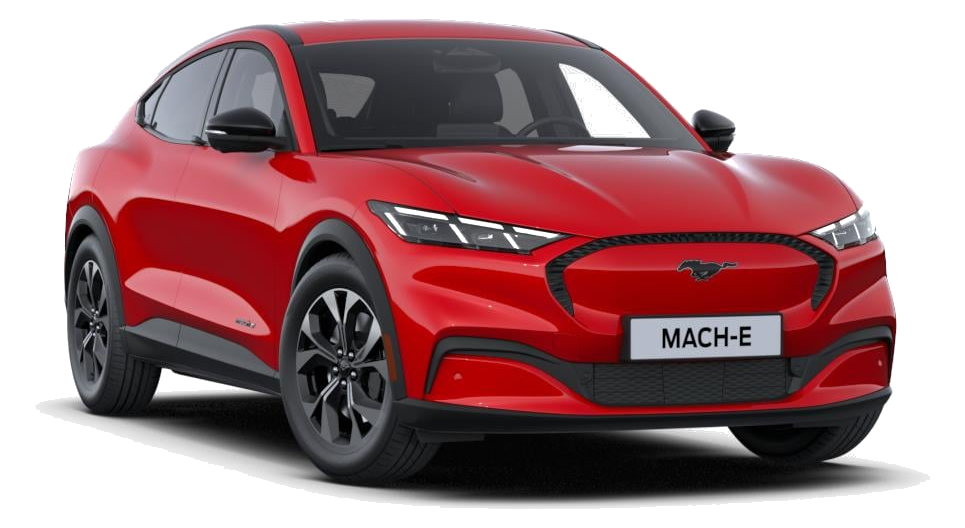
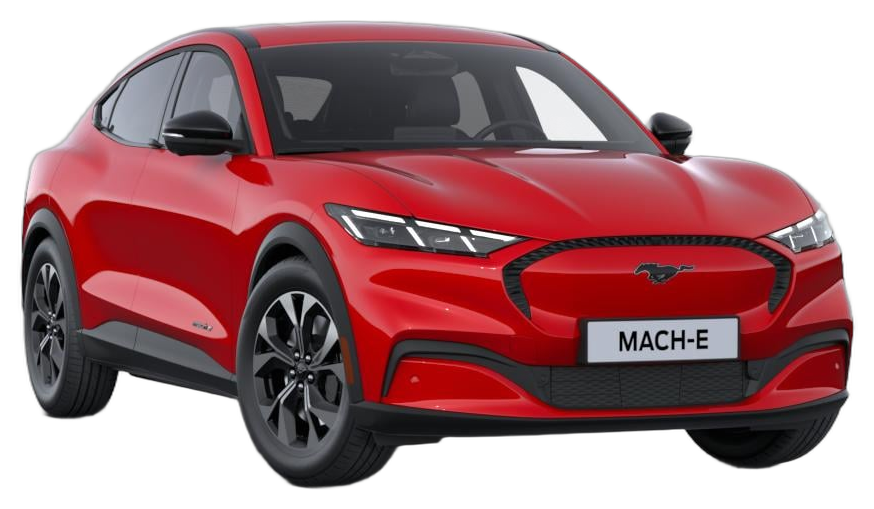
Corrigir recorte do Mustang; mover botões de vista para junto da paginação
- Ford Mustang Mach-E: substituída a imagem por um recorte mais limpo
  (o corte anterior tinha um contorno estranho)
- Os botões de grelha/carrossel deixam de ficar junto ao título
  "Viaturas disponíveis" e passam para a mesma linha do indicador de
  página e das setas (só aparecem quando há resultados); a paginação
  (page/perPage) passa a ser controlada em Home.jsx, e o CarCarousel
  fica só com a grelha de cartões

Claude-Session: https://claude.ai/code/session_01RBfWJj3LGtyzrDsbSkQSH1

diff --git a/src/pages/Home.jsx b/src/pages/Home.jsx
@@ -7,6 +7,9 @@ import CarCarousel from "../components/CarCarousel.jsx";
 import { CARS } from "../data/cars.js";
 import { useLanguage } from "../i18n/LanguageContext.jsx";
 import { localizeCar } from "../i18n/localizeCar.js";
+import { useColumns } from "../hooks/useColumns.js";
+
+const ROWS_PER_PAGE = 3;
 
 const PRECO_OPCOES = [15000, 20000, 30000, 40000, 60000, 80000, 100000];
 
@@ -22,6 +25,9 @@ export default function Home() {
   const [combustivel, setCombustivel] = useState("Todos");
   const [precoMax, setPrecoMax] = useState(null); // null = sem limite de preço
   const [vista, setVista] = useState("carrossel");
+  const [page, setPage] = useState(0);
+  const cols = useColumns();
+  const perPage = cols * ROWS_PER_PAGE;
 
   // Atalhos vindos do menu (ex.: /?marca=BMW, /?combustivel=Elétrico,
   // /?ordenar=recentes) — aplicam o filtro e vão direto aos resultados.
@@ -84,6 +90,15 @@ export default function Home() {
     return list.map((c) => localizeCar(c, lang));
   }, [marca, modelo, combustivel, precoMax, lang, ordenar]);
 
+  // Paginação da vista "carrossel" — sempre no máximo 3 filas por página.
+  useEffect(() => {
+    setPage(0);
+  }, [marca, modelo, combustivel, precoMax, ordenar, vista, perPage]);
+
+  const pageCount = Math.max(1, Math.ceil(filtrados.length / perPage));
+  const currentPage = Math.min(page, pageCount - 1);
+  const pageCars = filtrados.slice(currentPage * perPage, currentPage * perPage + perPage);
+
   return (
     <>
       {/* Hero — vídeo de fundo, cabeçalho sobreposto (ver Header.jsx) */}
@@ -135,54 +150,9 @@ export default function Home() {
           <h2 className="font-head text-2xl font-medium text-paper-text sm:text-3xl">
             {t("home.catalogo")}
           </h2>
-          <div className="flex items-center gap-4">
-            <span className="font-sans text-[13px] text-paper-muted">
-              {filtrados.length} {t("home.de")} {CARS.length}
-            </span>
-            <div className="flex border border-paper-line">
-              <button
-                onClick={() => setVista("grelha")}
-                aria-label={t("home.grelha")}
-                aria-pressed={vista === "grelha"}
-                className={`flex h-8 w-9 items-center justify-center transition-colors ${
-                  vista === "grelha"
-                    ? "bg-ink text-white"
-                    : "text-paper-muted hover:text-paper-text"
-                }`}
-              >
-                <svg viewBox="0 0 24 24" className="h-4 w-4" fill="currentColor" aria-hidden="true">
-                  <rect x="3" y="3" width="7" height="7" />
-                  <rect x="14" y="3" width="7" height="7" />
-                  <rect x="3" y="14" width="7" height="7" />
-                  <rect x="14" y="14" width="7" height="7" />
-                </svg>
-              </button>
-              <button
-                onClick={() => setVista("carrossel")}
-                aria-label={t("home.carrossel")}
-                aria-pressed={vista === "carrossel"}
-                className={`flex h-8 w-9 items-center justify-center border-l border-paper-line transition-colors ${
-                  vista === "carrossel"
-                    ? "bg-ink text-white"
-                    : "text-paper-muted hover:text-paper-text"
-                }`}
-              >
-                <svg
-                  viewBox="0 0 24 24"
-                  className="h-4 w-4"
-                  fill="none"
-                  stroke="currentColor"
-                  strokeWidth="1.8"
-                  strokeLinecap="round"
-                  strokeLinejoin="round"
-                  aria-hidden="true"
-                >
-                  <rect x="7" y="5" width="10" height="14" rx="1" />
-                  <path d="M3 9v6M21 9v6" />
-                </svg>
-              </button>
-            </div>
-          </div>
+          <span className="font-sans text-[13px] text-paper-muted">
+            {filtrados.length} {t("home.de")} {CARS.length}
+          </span>
         </div>
 
         <div className="mb-10">
@@ -205,6 +175,100 @@ export default function Home() {
         </div>
 
         <div id="resultados" />
+
+        {filtrados.length > 0 && (
+          <div className="mb-4 flex items-center justify-end gap-3">
+            {vista === "carrossel" && pageCount > 1 && (
+              <>
+                <span className="font-sans text-[13px] text-paper-muted">
+                  {currentPage + 1} / {pageCount}
+                </span>
+                <div className="flex gap-2">
+                  <button
+                    onClick={() => setPage((p) => Math.max(0, p - 1))}
+                    disabled={currentPage === 0}
+                    aria-label={t("home.anteriores")}
+                    className="flex h-9 w-9 items-center justify-center border border-paper-line text-paper-muted transition-colors hover:border-paper-text hover:text-paper-text disabled:pointer-events-none disabled:opacity-30"
+                  >
+                    <svg
+                      viewBox="0 0 24 24"
+                      className="h-4 w-4"
+                      fill="none"
+                      stroke="currentColor"
+                      strokeWidth="1.8"
+                      strokeLinecap="round"
+                      strokeLinejoin="round"
+                    >
+                      <path d="M15 6l-6 6 6 6" />
+                    </svg>
+                  </button>
+                  <button
+                    onClick={() => setPage((p) => Math.min(pageCount - 1, p + 1))}
+                    disabled={currentPage === pageCount - 1}
+                    aria-label={t("home.seguintes")}
+                    className="flex h-9 w-9 items-center justify-center border border-paper-line text-paper-muted transition-colors hover:border-paper-text hover:text-paper-text disabled:pointer-events-none disabled:opacity-30"
+                  >
+                    <svg
+                      viewBox="0 0 24 24"
+                      className="h-4 w-4"
+                      fill="none"
+                      stroke="currentColor"
+                      strokeWidth="1.8"
+                      strokeLinecap="round"
+                      strokeLinejoin="round"
+                    >
+                      <path d="M9 6l6 6-6 6" />
+                    </svg>
+                  </button>
+                </div>
+              </>
+            )}
+            <div className="flex border border-paper-line">
+              <button
+                onClick={() => setVista("grelha")}
+                aria-label={t("home.grelha")}
+                aria-pressed={vista === "grelha"}
+                className={`flex h-9 w-9 items-center justify-center transition-colors ${
+                  vista === "grelha"
+                    ? "bg-ink text-white"
+                    : "text-paper-muted hover:text-paper-text"
+                }`}
+              >
+                <svg viewBox="0 0 24 24" className="h-4 w-4" fill="currentColor" aria-hidden="true">
+                  <rect x="3" y="3" width="7" height="7" />
+                  <rect x="14" y="3" width="7" height="7" />
+                  <rect x="3" y="14" width="7" height="7" />
+                  <rect x="14" y="14" width="7" height="7" />
+                </svg>
+              </button>
+              <button
+                onClick={() => setVista("carrossel")}
+                aria-label={t("home.carrossel")}
+                aria-pressed={vista === "carrossel"}
+                className={`flex h-9 w-9 items-center justify-center border-l border-paper-line transition-colors ${
+                  vista === "carrossel"
+                    ? "bg-ink text-white"
+                    : "text-paper-muted hover:text-paper-text"
+                }`}
+              >
+                <svg
+                  viewBox="0 0 24 24"
+                  className="h-4 w-4"
+                  fill="none"
+                  stroke="currentColor"
+                  strokeWidth="1.8"
+                  strokeLinecap="round"
+                  strokeLinejoin="round"
+                  aria-hidden="true"
+                >
+                  <rect x="7" y="5" width="10" height="14" rx="1" />
+                  <path d="M3 9v6M21 9v6" />
+                </svg>
+              </button>
+            </div>
+          </div>
+        )}
+
         {filtrados.length > 0 ? (
           vista === "grelha" ? (
             <div className="grid grid-cols-1 gap-5 sm:grid-cols-2 lg:grid-cols-3">
@@ -213,7 +277,7 @@ export default function Home() {
               ))}
             </div>
           ) : (
-            <CarCarousel cars={filtrados} />
+            <CarCarousel cars={pageCars} />
           )
         ) : (
           <p className="font-sans text-sm text-paper-muted">{t("home.vazio")}</p>

diff --git a/src/components/CarCarousel.jsx b/src/components/CarCarousel.jsx
@@ -1,97 +1,15 @@
-import { useEffect, useState } from "react";
 import CarCard from "./CarCard.jsx";
-import { useLanguage } from "../i18n/LanguageContext.jsx";
 
-const ROWS = 3;
-
-// Nº de colunas conforme os breakpoints do grid (ver classes abaixo) —
-// usado só para calcular quantos cartões cabem em 3 filas por página.
-function useColumns() {
-  const [cols, setCols] = useState(3);
-  useEffect(() => {
-    function update() {
-      const w = window.innerWidth;
-      setCols(w >= 1024 ? 3 : w >= 640 ? 2 : 1);
-    }
-    update();
-    window.addEventListener("resize", update);
-    return () => window.removeEventListener("resize", update);
-  }, []);
-  return cols;
-}
-
-// Mostra sempre no máximo 3 filas de cada vez — em vez de uma grelha
-// enorme a exigir muito scroll, pagina-se para o lado com setas.
+// Grelha simples dos cartões de uma página — a paginação (3 filas de
+// cada vez, com setas) é controlada pelo componente pai (Home.jsx).
 export default function CarCarousel({ cars }) {
-  const { t } = useLanguage();
-  const cols = useColumns();
-  const perPage = cols * ROWS;
-  const [page, setPage] = useState(0);
-
-  useEffect(() => {
-    setPage(0);
-  }, [cars, perPage]);
-
   if (cars.length === 0) return null;
 
-  const pageCount = Math.max(1, Math.ceil(cars.length / perPage));
-  const current = Math.min(page, pageCount - 1);
-  const start = current * perPage;
-  const pageCars = cars.slice(start, start + perPage);
-
   return (
-    <div>
-      {pageCount > 1 && (
-        <div className="mb-4 flex items-center justify-end gap-3">
-          <span className="font-sans text-[13px] text-paper-muted">
-            {current + 1} / {pageCount}
-          </span>
-          <div className="flex gap-2">
-            <button
-              onClick={() => setPage((p) => Math.max(0, p - 1))}
-              disabled={current === 0}
-              aria-label={t("home.anteriores")}
-              className="flex h-9 w-9 items-center justify-center border border-paper-line text-paper-muted transition-colors hover:border-paper-text hover:text-paper-text disabled:pointer-events-none disabled:opacity-30"
-            >
-              <svg
-                viewBox="0 0 24 24"
-                className="h-4 w-4"
-                fill="none"
-                stroke="currentColor"
-                strokeWidth="1.8"
-                strokeLinecap="round"
-                strokeLinejoin="round"
-              >
-                <path d="M15 6l-6 6 6 6" />
-              </svg>
-            </button>
-            <button
-              onClick={() => setPage((p) => Math.min(pageCount - 1, p + 1))}
-              disabled={current === pageCount - 1}
-              aria-label={t("home.seguintes")}
-              className="flex h-9 w-9 items-center justify-center border border-paper-line text-paper-muted transition-colors hover:border-paper-text hover:text-paper-text disabled:pointer-events-none disabled:opacity-30"
-            >
-              <svg
-                viewBox="0 0 24 24"
-                className="h-4 w-4"
-                fill="none"
-                stroke="currentColor"
-                strokeWidth="1.8"
-                strokeLinecap="round"
-                strokeLinejoin="round"
-              >
-                <path d="M9 6l6 6-6 6" />
-              </svg>
-            </button>
-          </div>
-        </div>
-      )}
-
-      <div className="grid grid-cols-1 gap-5 sm:grid-cols-2 lg:grid-cols-3">
-        {pageCars.map((car) => (
-          <CarCard key={car.id} car={car} />
-        ))}
-      </div>
+    <div className="grid grid-cols-1 gap-5 sm:grid-cols-2 lg:grid-cols-3">
+      {cars.map((car) => (
+        <CarCard key={car.id} car={car} />
+      ))}
     </div>
   );
 }

diff --git a/src/hooks/useColumns.js b/src/hooks/useColumns.js
@@ -1,0 +1,17 @@
+import { useEffect, useState } from "react";
+
+// Nº de colunas conforme os breakpoints do grid de viaturas
+// (grid-cols-1 sm:grid-cols-2 lg:grid-cols-3).
+export function useColumns() {
+  const [cols, setCols] = useState(3);
+  useEffect(() => {
+    function update() {
+      const w = window.innerWidth;
+      setCols(w >= 1024 ? 3 : w >= 640 ? 2 : 1);
+    }
+    update();
+    window.addEventListener("resize", update);
+    return () => window.removeEventListener("resize", update);
+  }, []);
+  return cols;
+}
